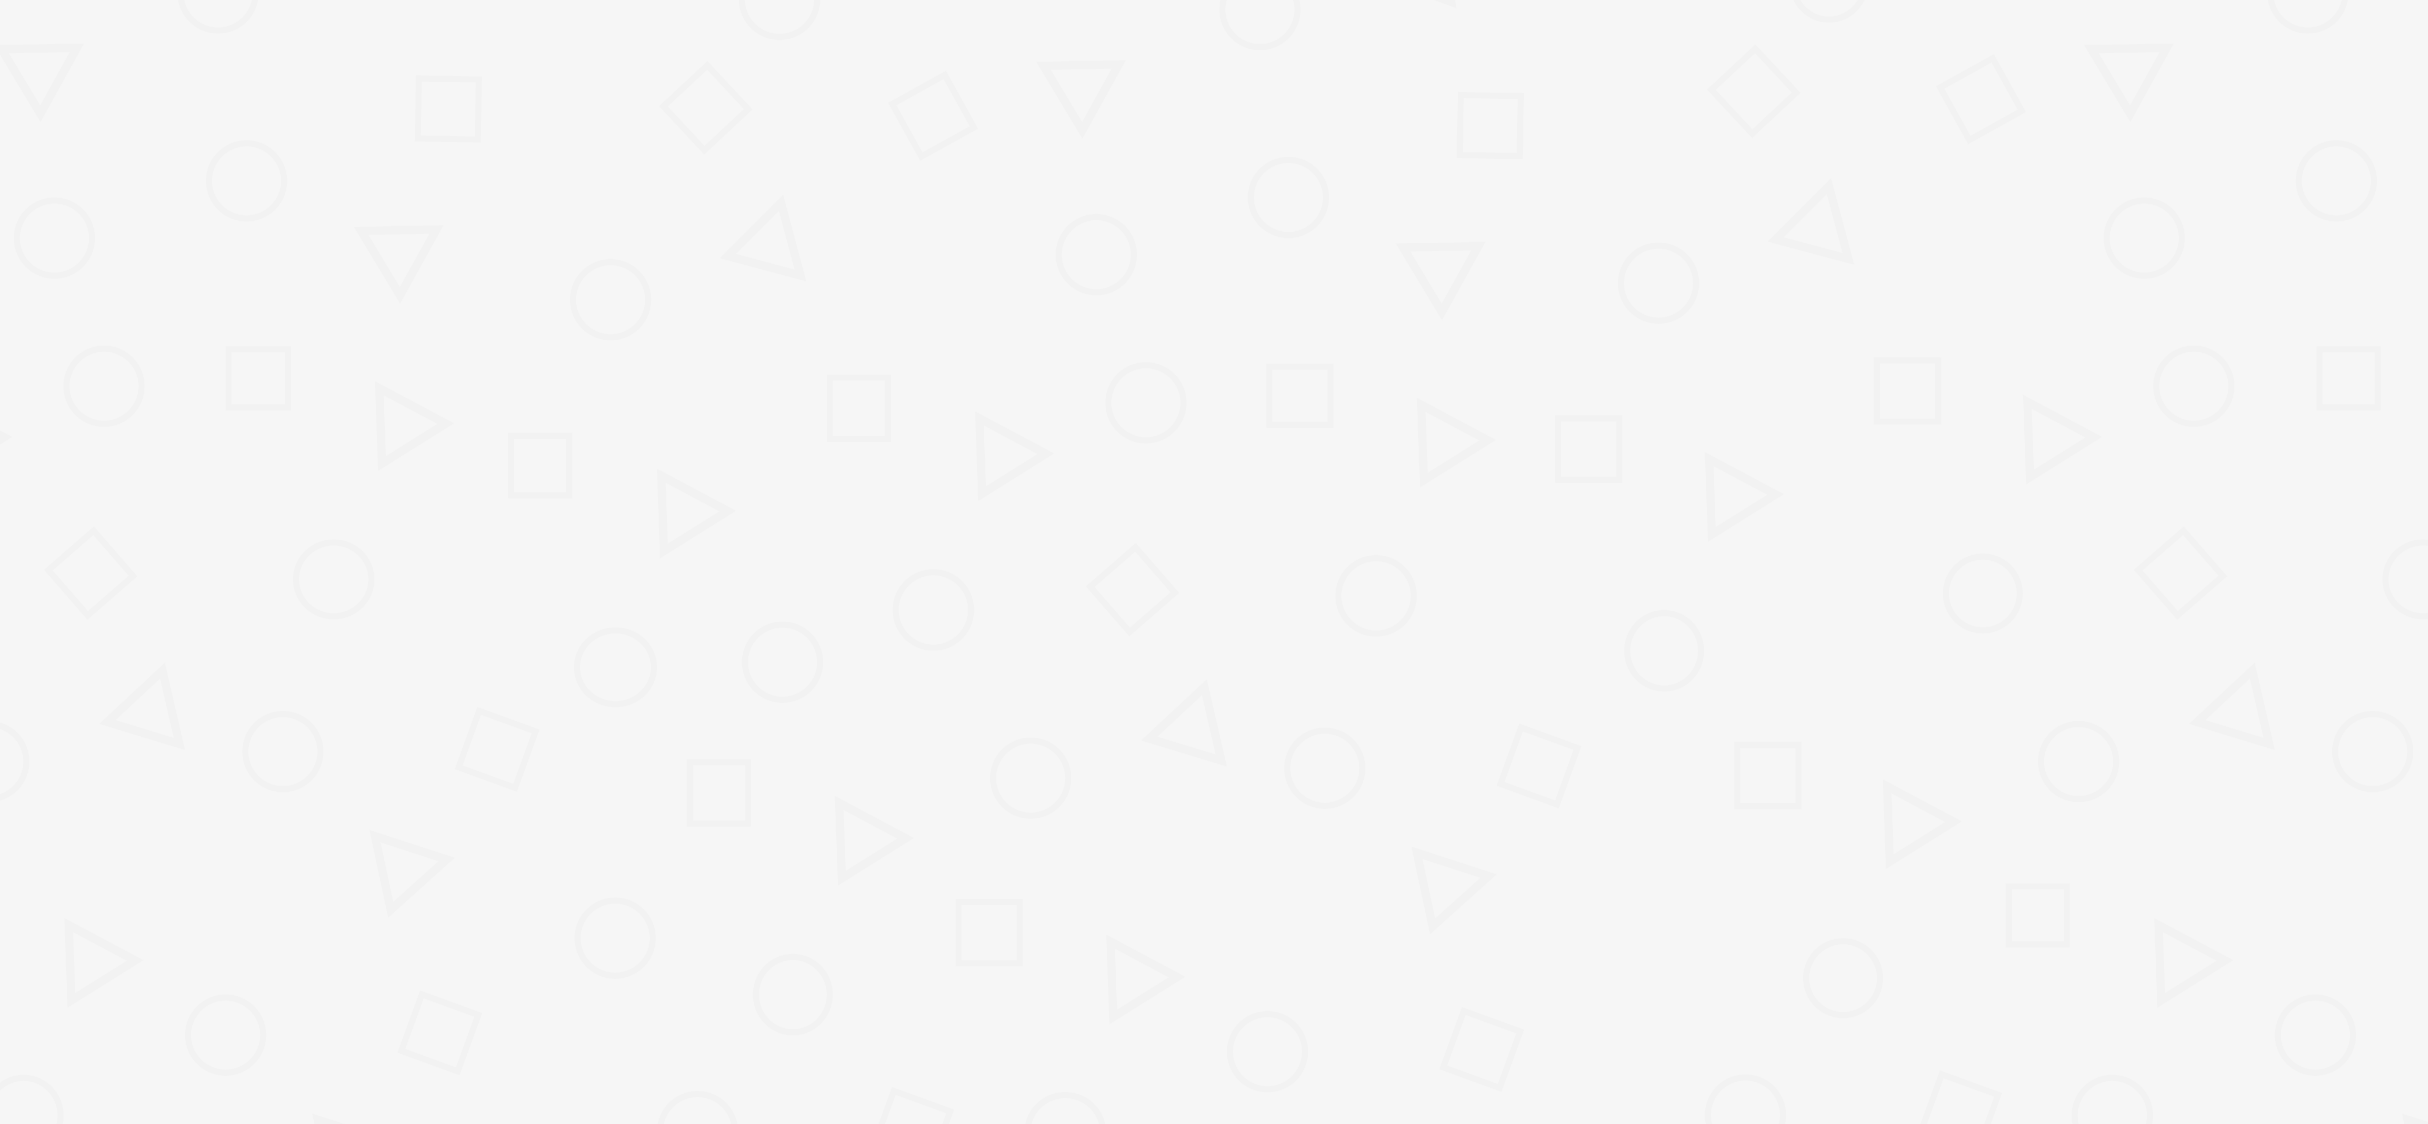
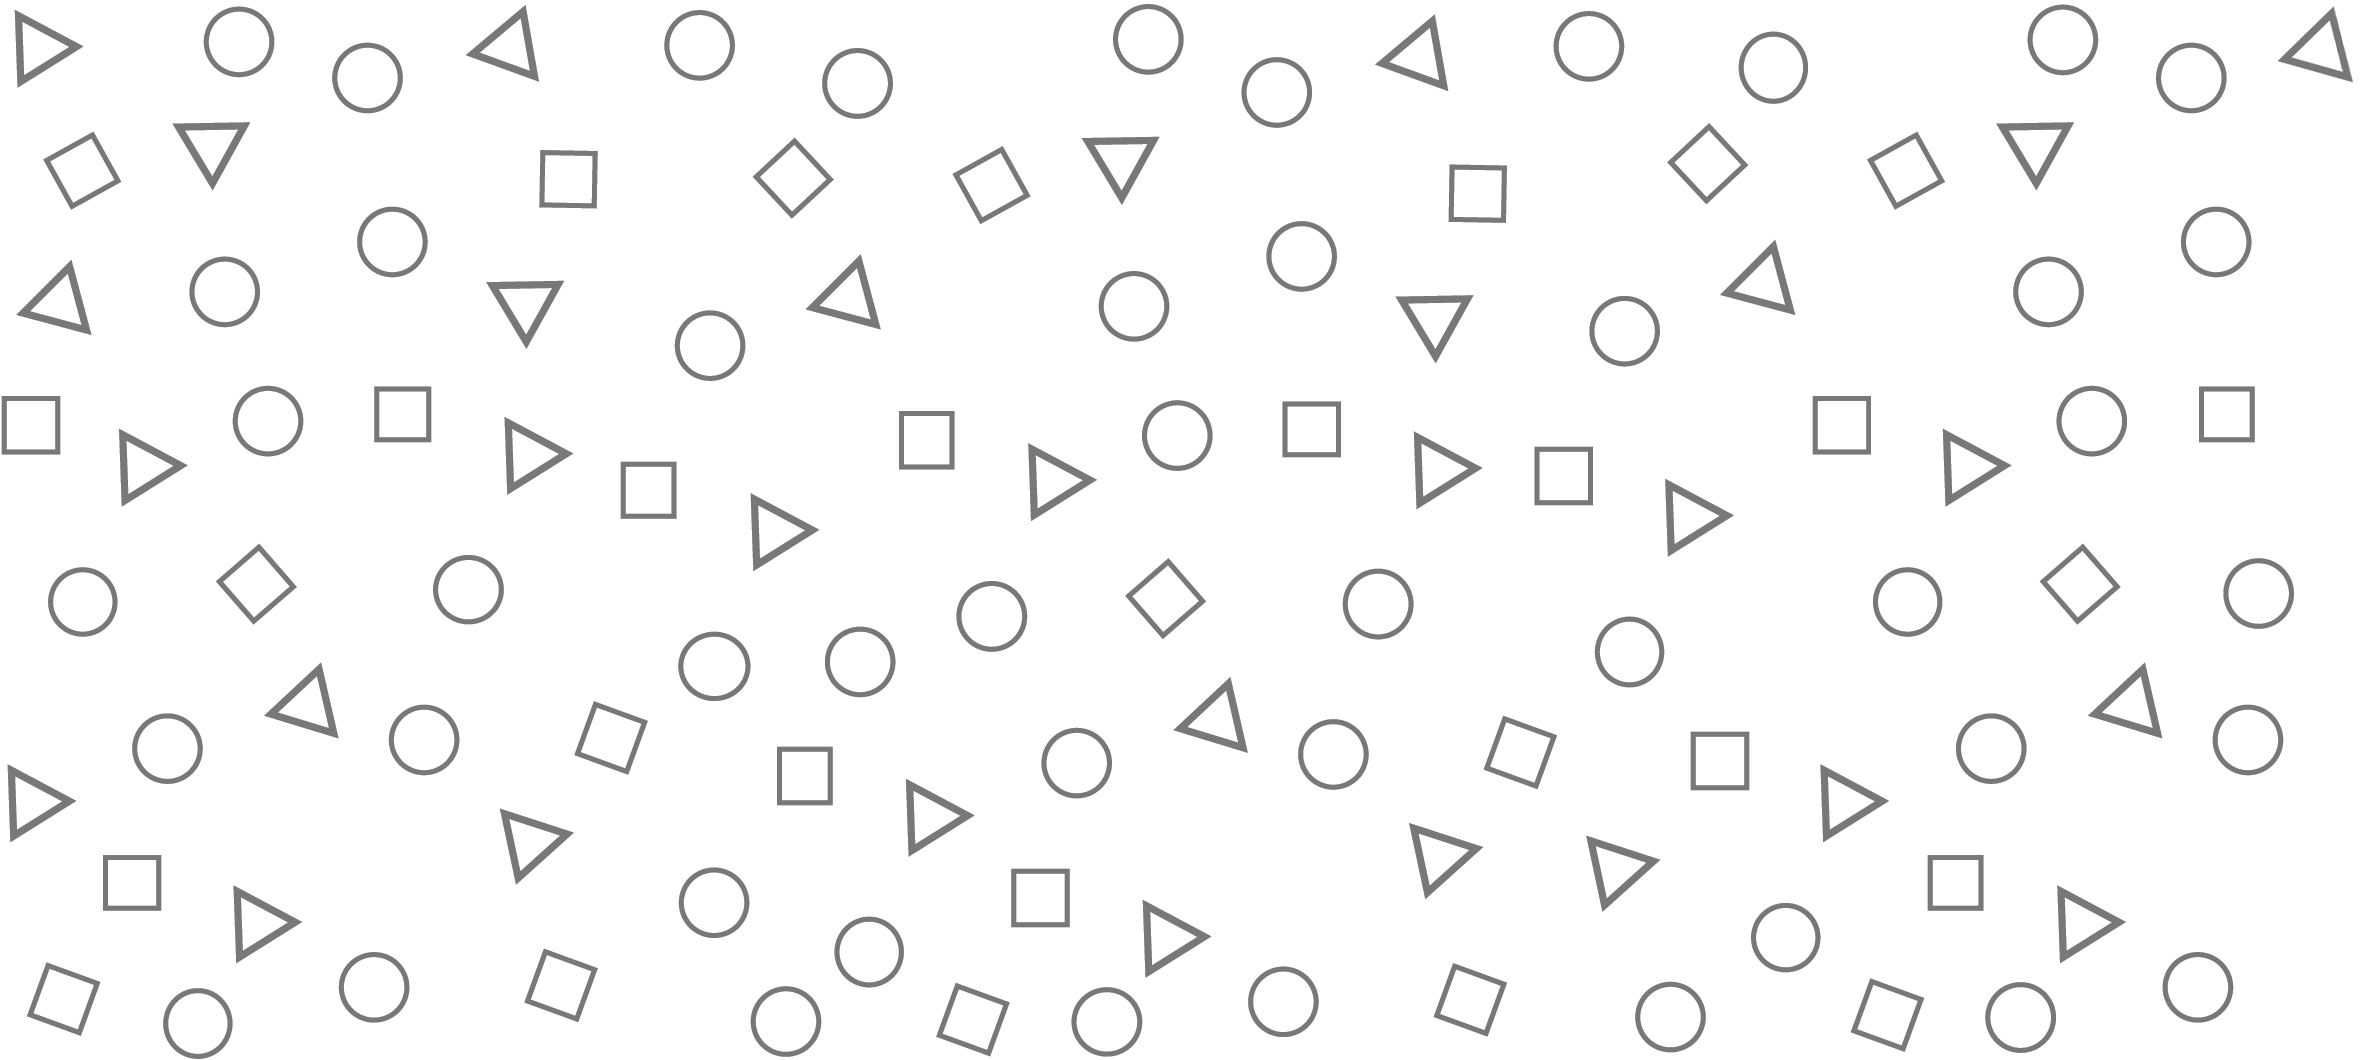
feat: Background changed

diff --git a/src/css/App.css b/src/css/App.css
@@ -13,6 +13,15 @@ html {
 body {
 	width: 100vw;
 	height: 100vh;
+
+	overflow-x: hidden;
+	overflow-y: scroll;
+	background-color: #f6f6f6;
+}
+
+.backgroundImage {
+	width: 100vw;
+	height: 100vh;
 	background-image: url('../images/background.png');
 	background-repeat: repeat;
     background-attachment: fixed;
@@ -20,21 +29,18 @@ body {
     -webkit-animation: backgroundScroll 150s linear infinite;
     -webkit-animation-fill-mode: forwards;
     animation: backgroundScroll 150s linear infinite;
-    animation-fill-mode: forwards;
+	animation-fill-mode: forwards;
+	z-index: -1;
 
-	overflow-x: hidden;
-	overflow-y: scroll;
-}
+	opacity: 0.06;
 
-#root {
-	width: inherit;
-	height: inherit;
-	font-family: 'Cabin', sans-serif;
+	position: fixed;
 }
 
 .rootContainer {
 	width: inherit;
 	height: inherit;
+	font-family: 'Cabin', sans-serif;
 }
 
 .navbarRow {

diff --git a/src/App.js b/src/App.js
@@ -19,17 +19,20 @@ class App extends React.Component {
 
 	render() {
 		return (
-			<Container fluid={true} className='rootContainer'>
-				<Row className='navbarRow'>
-					<CCSNavbar/>
-				</Row>
-				<Row className='homePageRow d-flex'>
-					<Home />
-				</Row>
-				<Row className='footerRow'>
-					<CCSFooter />
-				</Row>
-			</Container>
+			<>
+				<div className='backgroundImage'></div>
+				<Container fluid={true} className='rootContainer'>
+					<Row className='navbarRow'>
+						<CCSNavbar/>
+					</Row>
+					<Row className='homePageRow d-flex'>
+						<Home />
+					</Row>
+					<Row className='footerRow'>
+						<CCSFooter />
+					</Row>
+				</Container>
+			</>
 		);
 	}
 }
